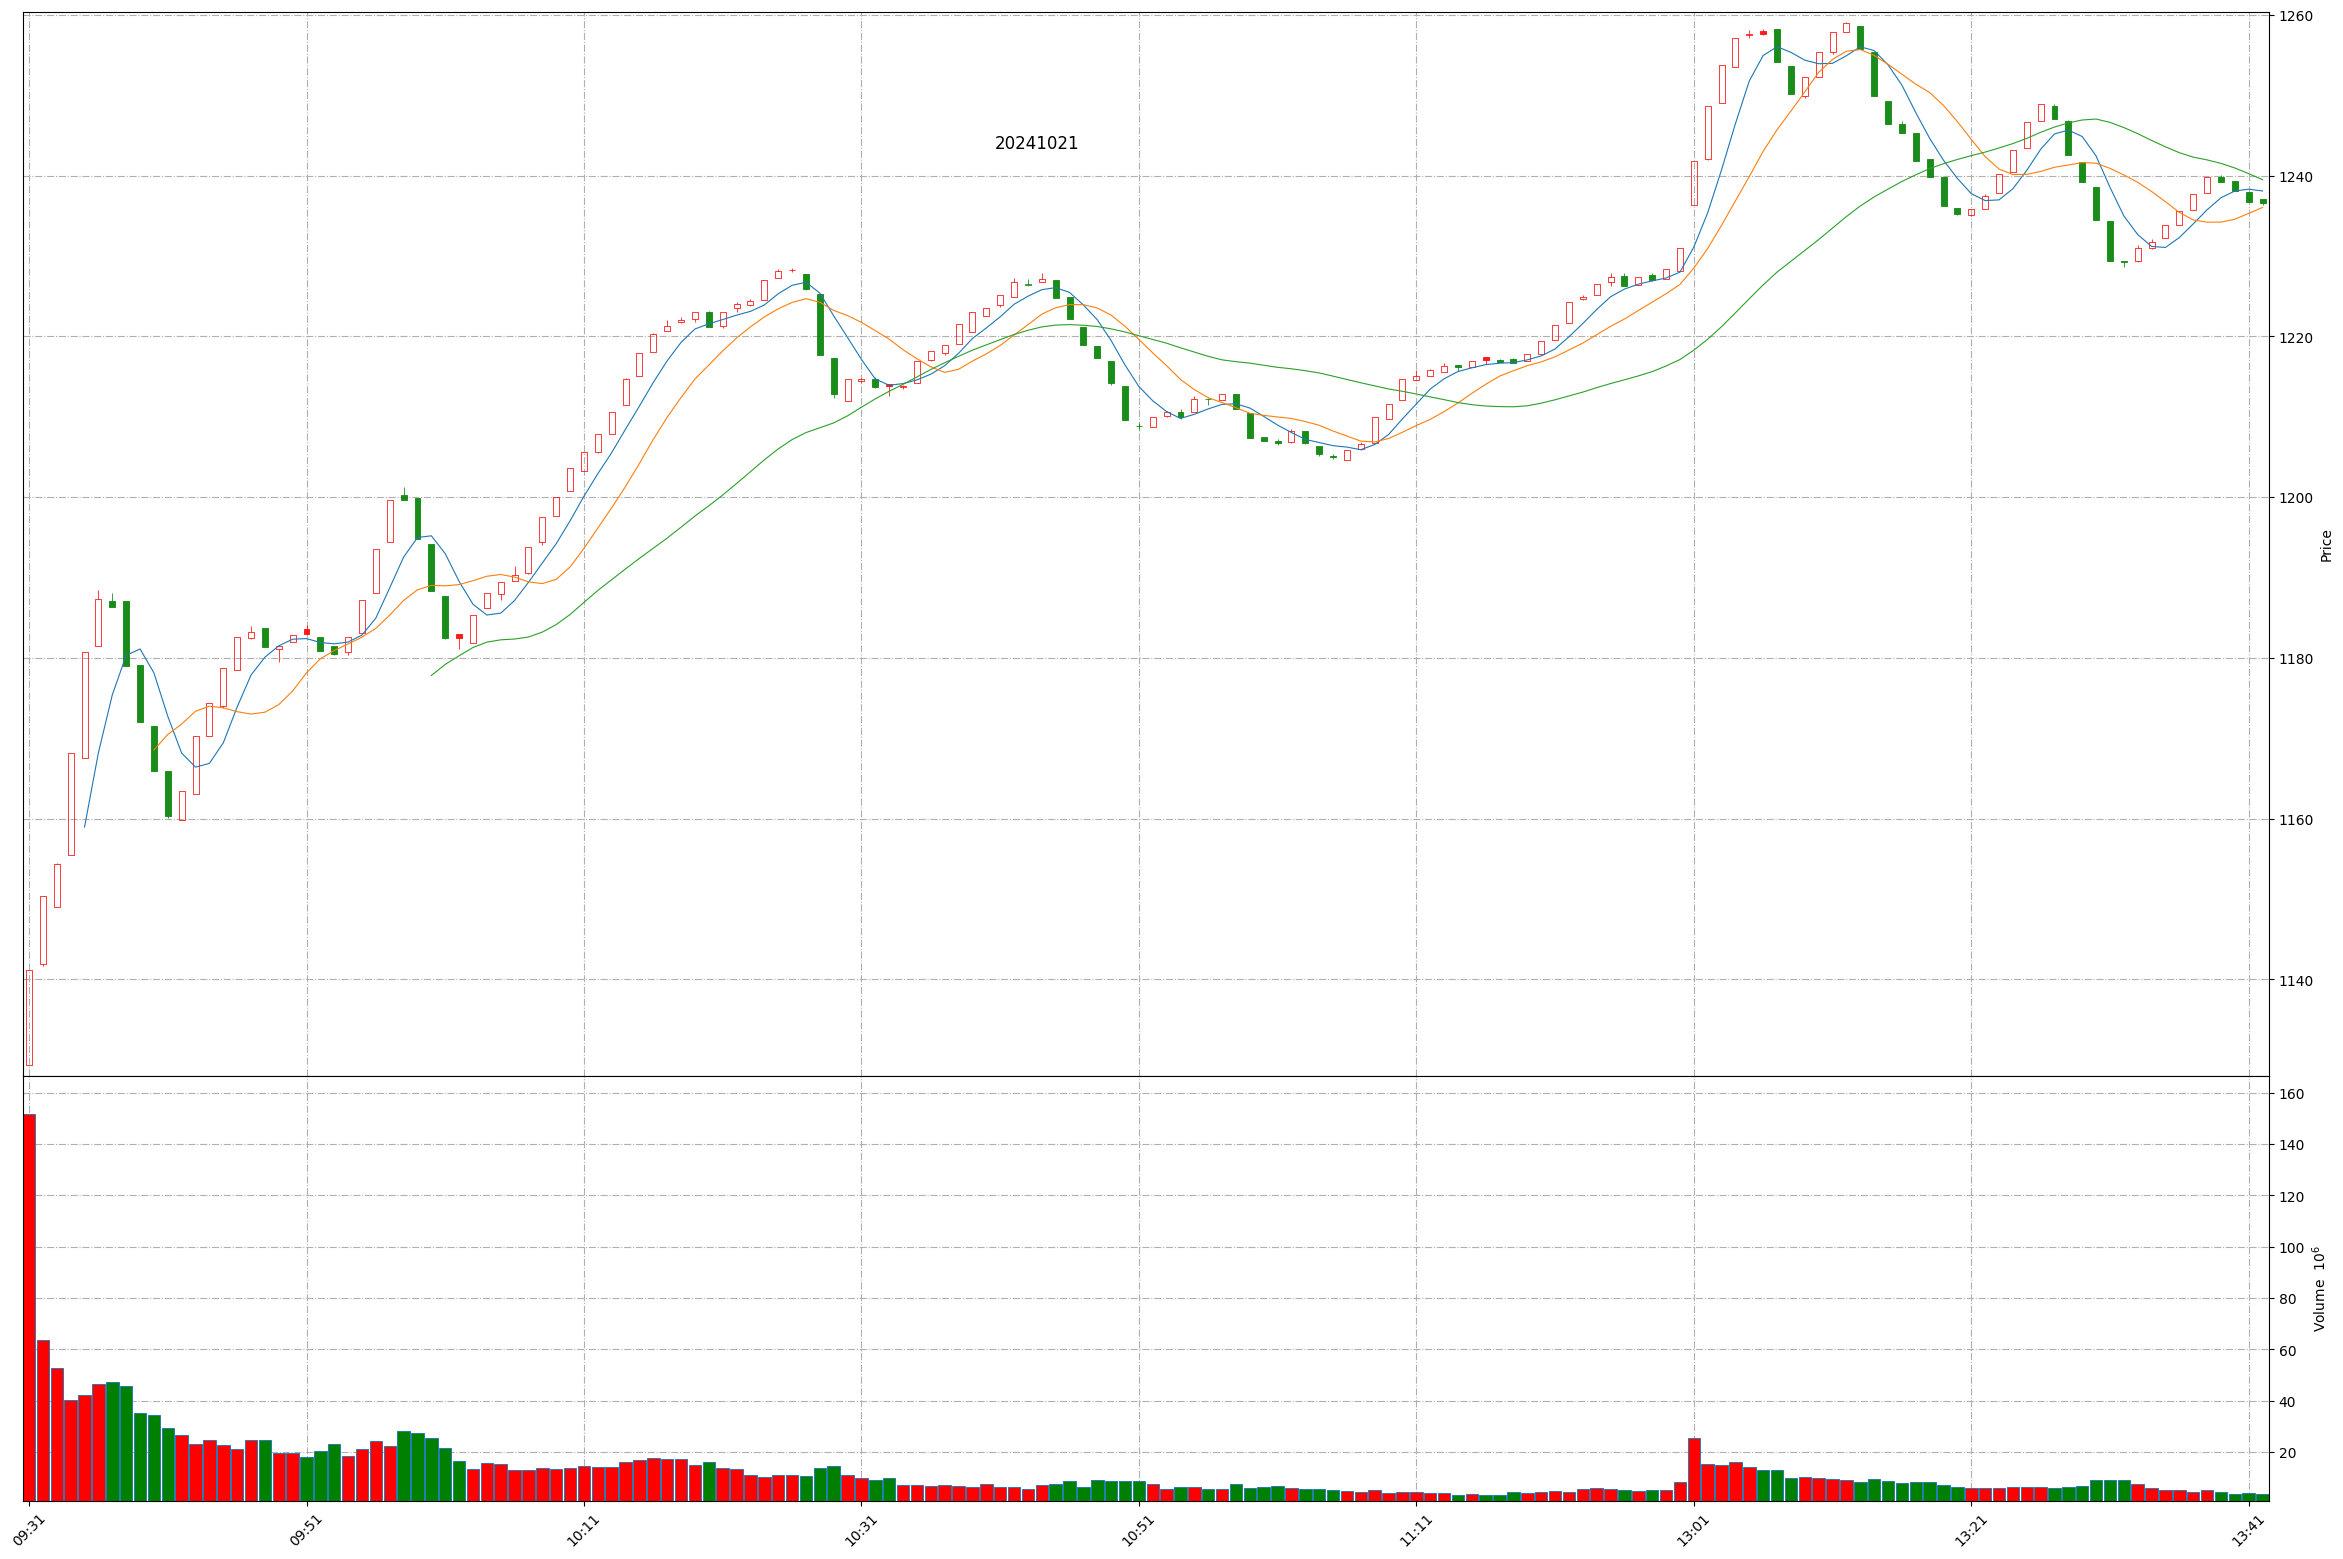
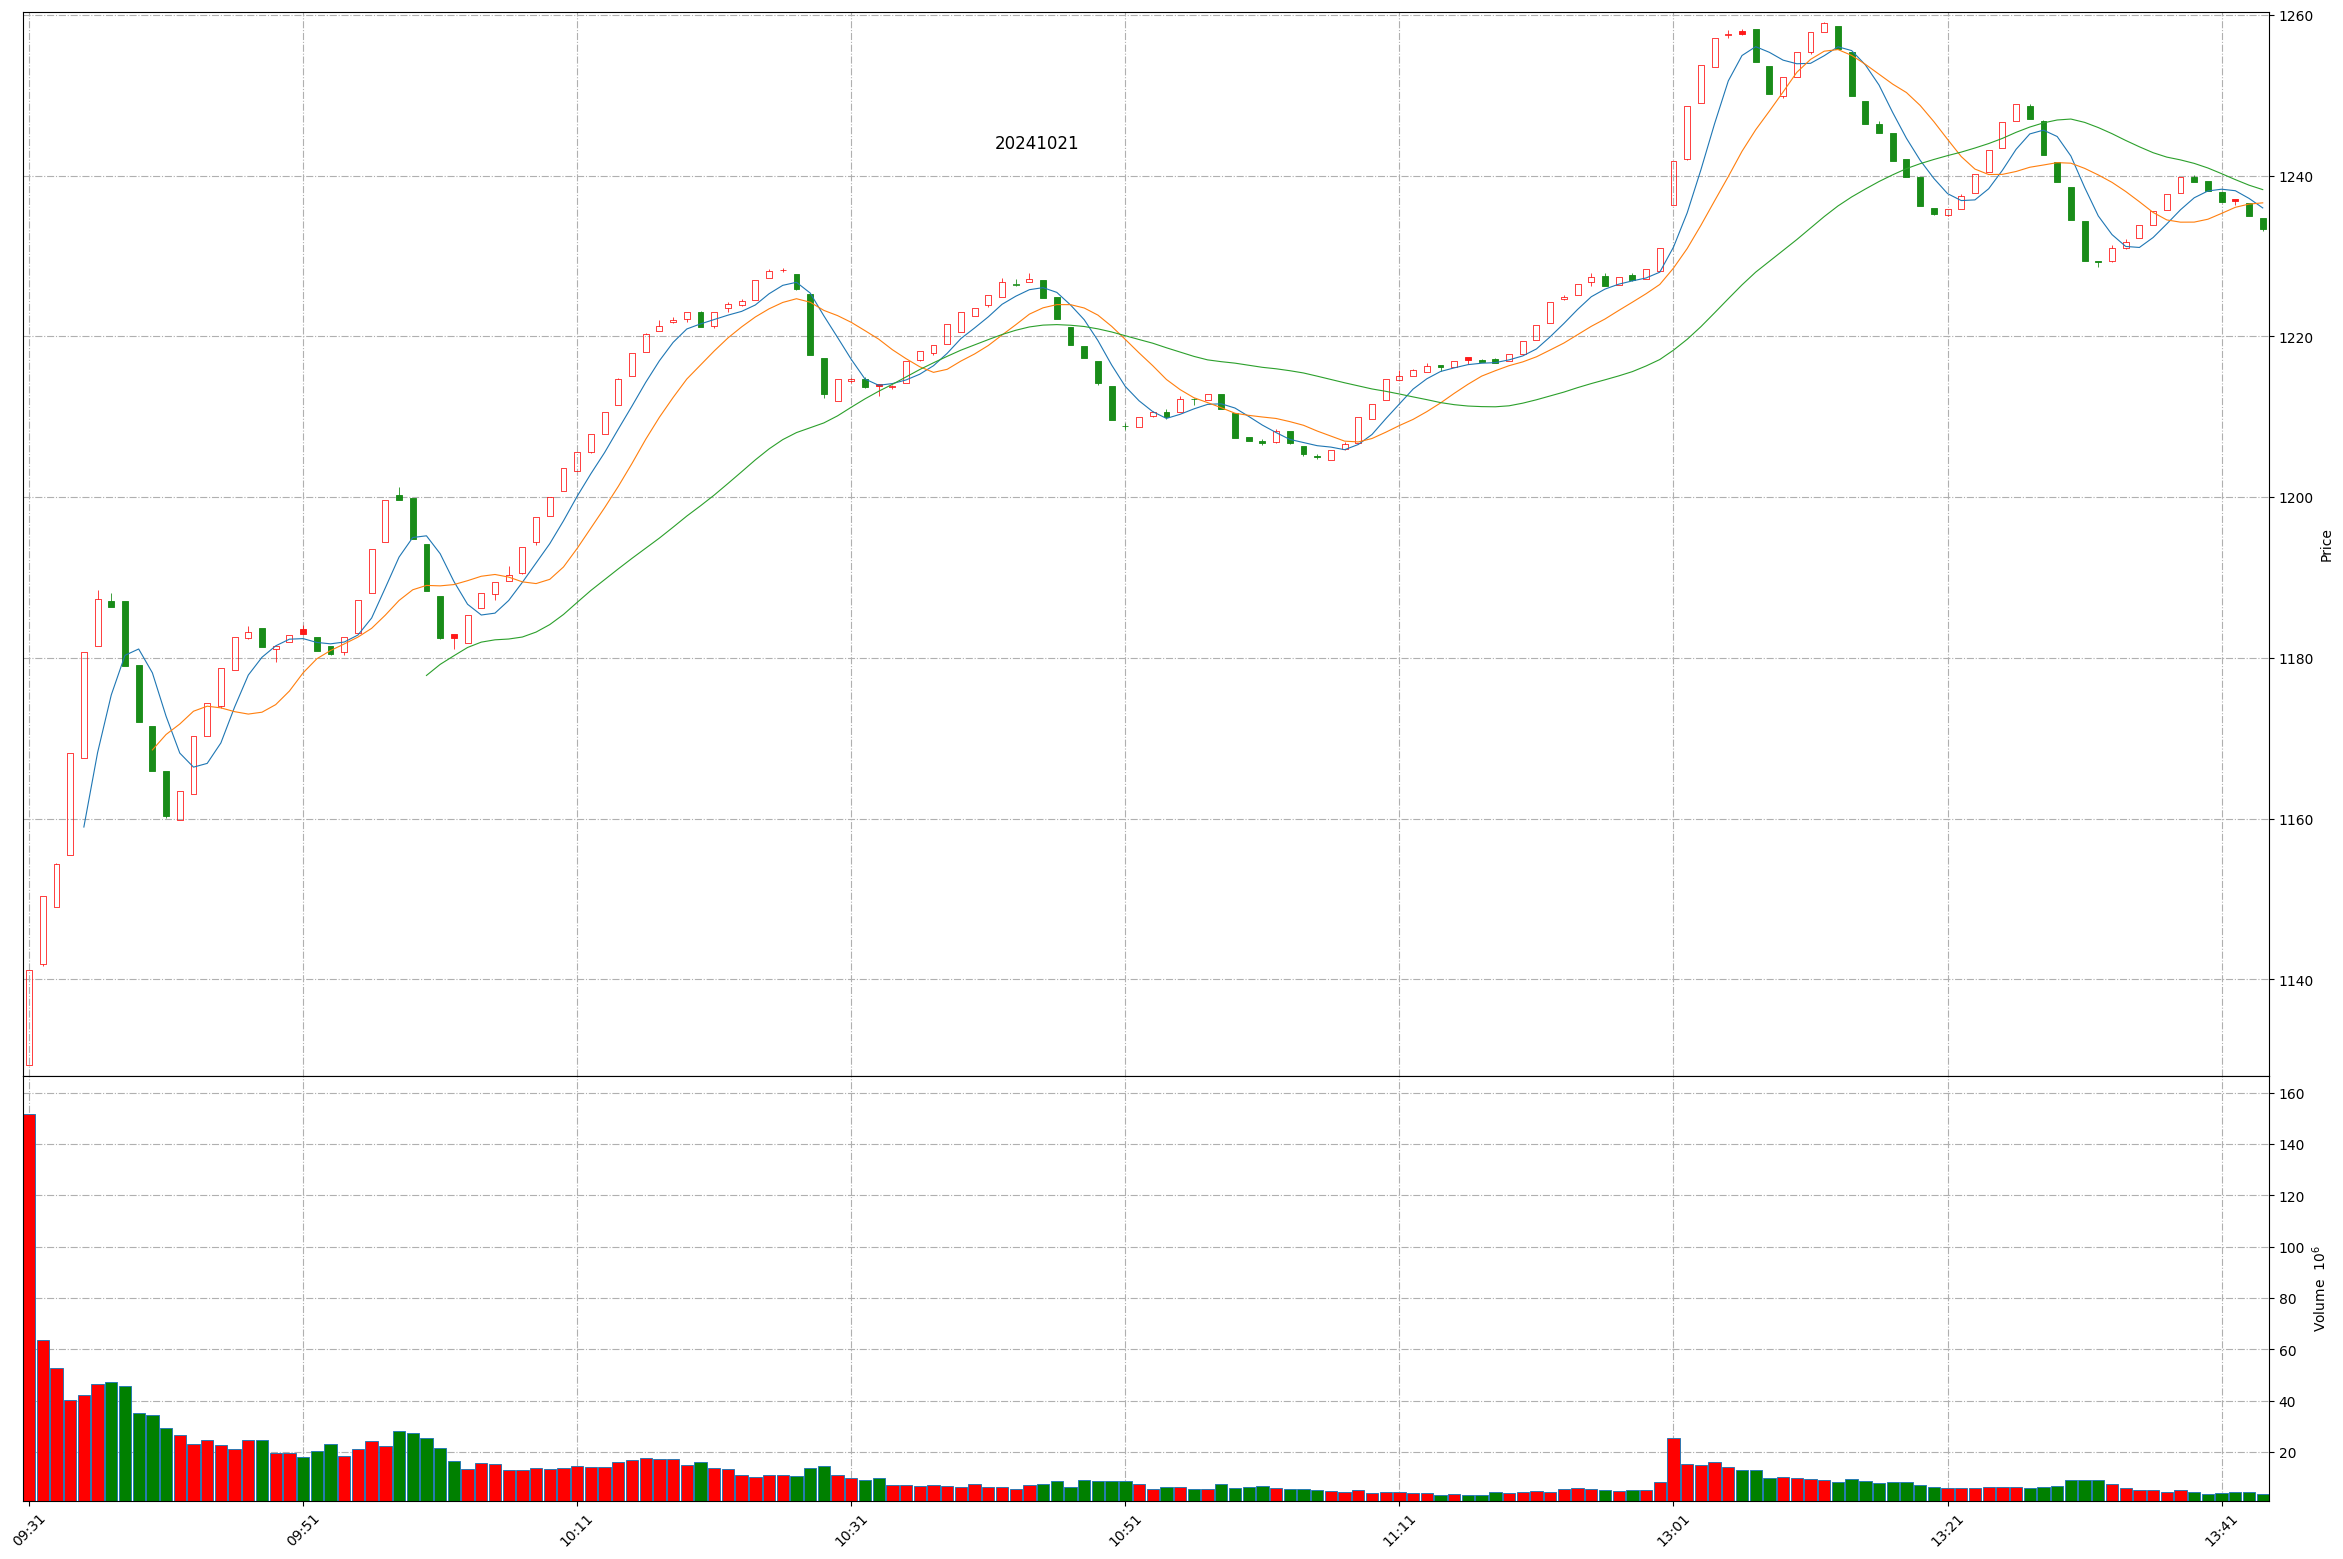
Github action update at 2024-10-21 13:43:54.

diff --git a/README.md b/README.md
@@ -1,11 +1,11 @@
 
 # Daily-A-share-market-quotes 每日 A 股指数（5min 更新）- 20241021
 
-### 上证指数 20241021 13:41
+### 上证指数 20241021 13:43
 ![](./fig/2024/10/20241021-sh000001.png)
 
-### 深证成指 20241021 13:41
+### 深证成指 20241021 13:43
 ![](./fig/2024/10/20241021-sz399001.png)
 
-### 北证50 20241021 13:41
+### 北证50 20241021 13:43
 ![](./fig/2024/10/20241021-bj899050.png)
